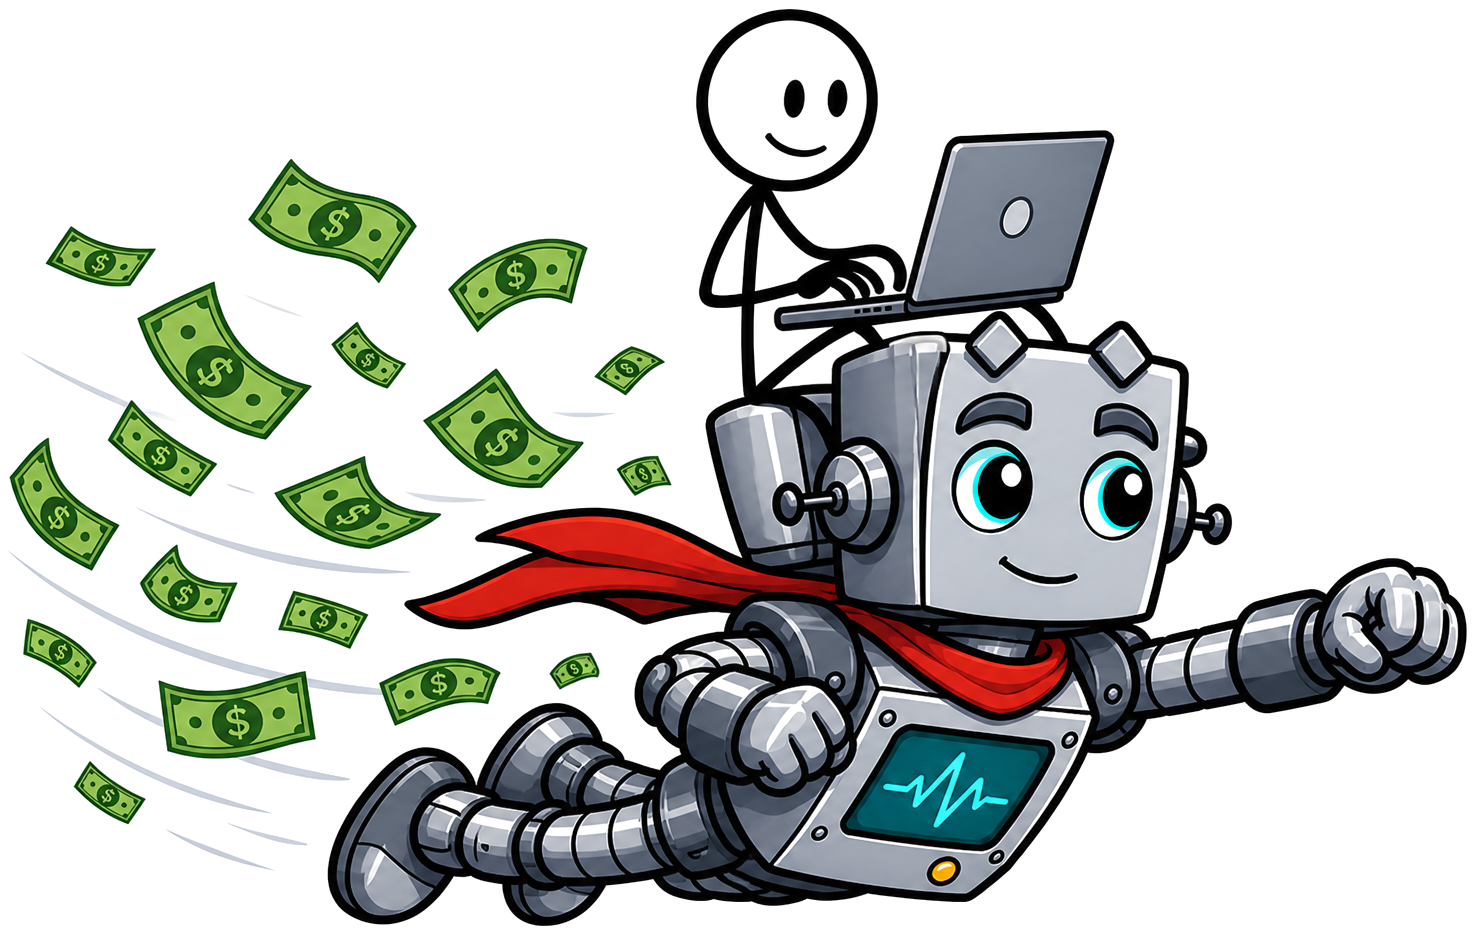
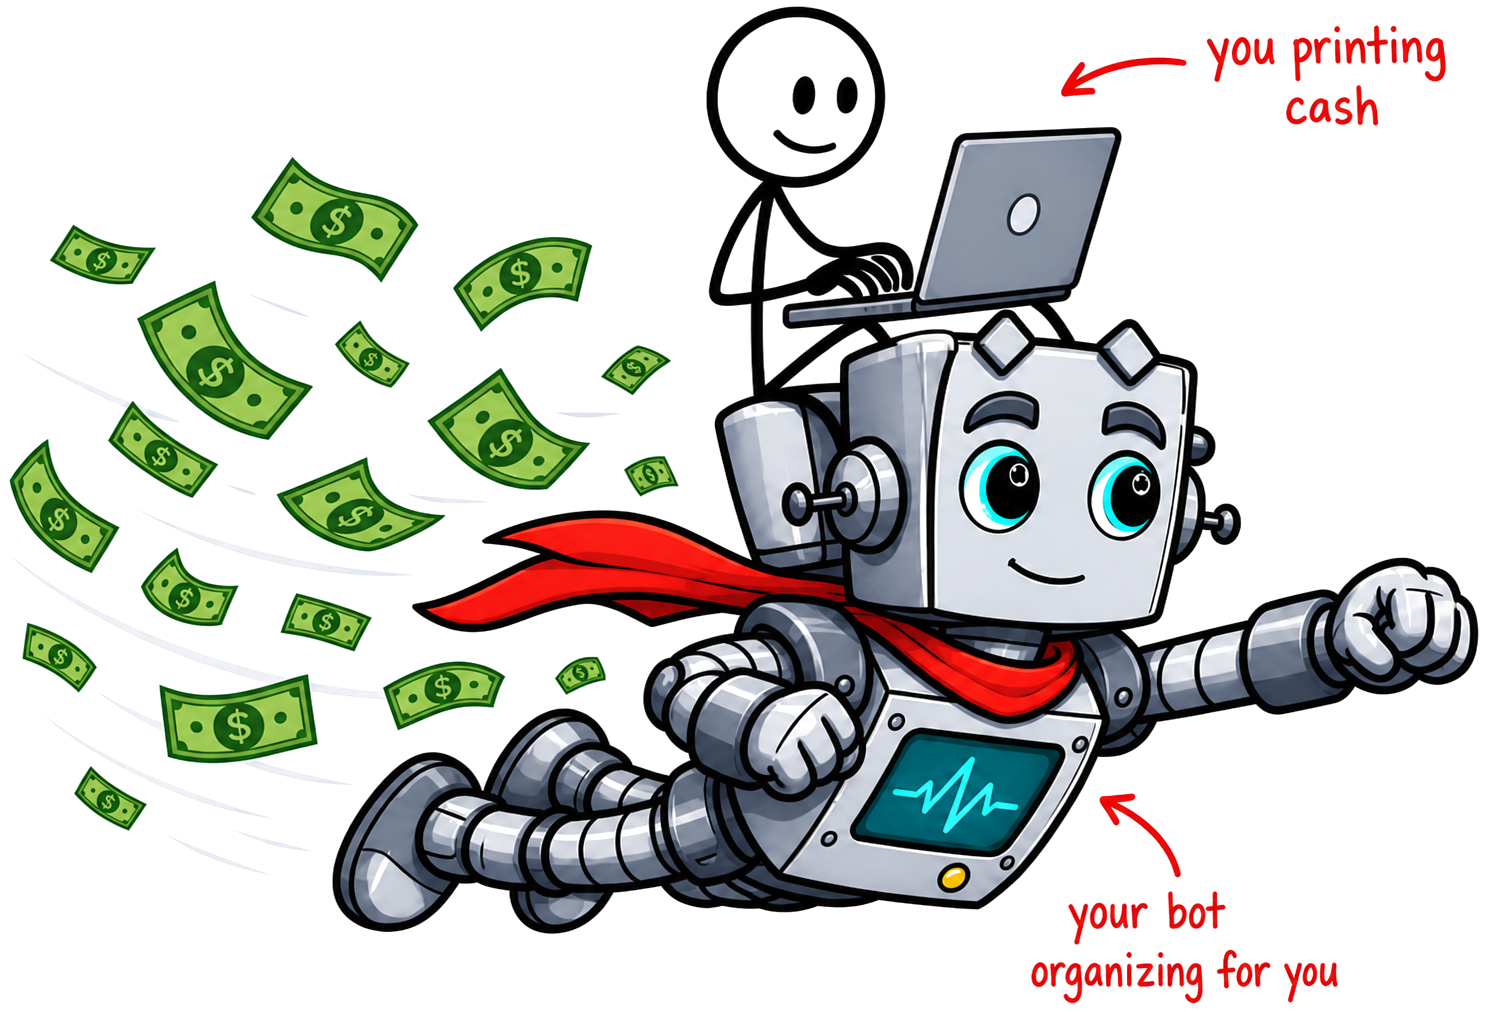
Use annotated flying bot art with transparent background.

diff --git a/components/marketing/LandingPage.tsx b/components/marketing/LandingPage.tsx
@@ -121,10 +121,10 @@ export default function LandingPage() {
           <div className="mb-12 text-center">
             <Image
               src="/marketing/daywinner-bot-flying.png"
-              alt="Daywinner bot flying with a stick figure typing on a laptop while money flies out"
-              width={1476}
-              height={934}
-              className="mx-auto mb-4 h-auto w-full max-w-[180px] sm:max-w-[220px]"
+              alt="Daywinner bot organizing for you while you print cash — stick figure on laptop riding the flying bot"
+              width={1489}
+              height={1012}
+              className="mx-auto mb-4 h-auto w-full max-w-[260px] sm:max-w-[320px]"
               unoptimized
             />
             <p className="mb-3 text-sm text-slate-500 sm:text-[15px]">
